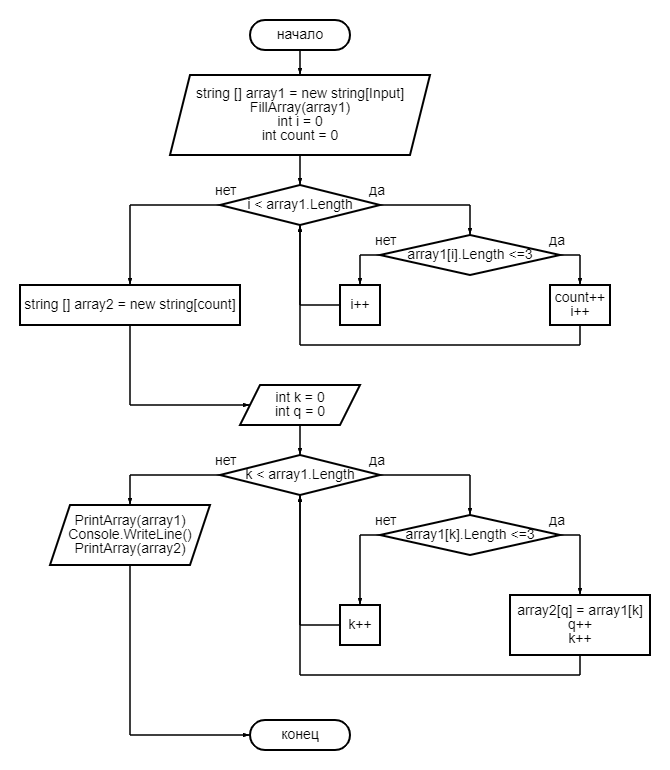
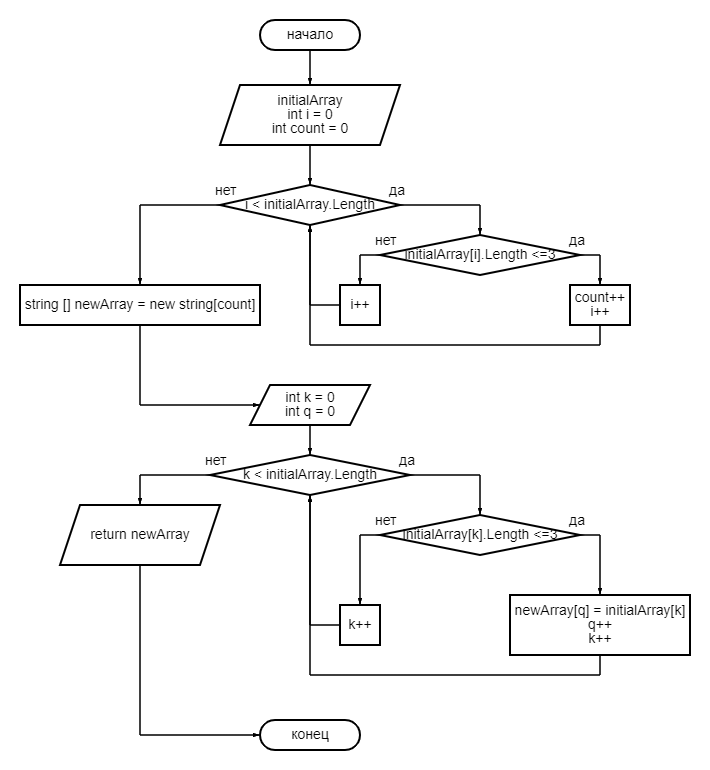
окончательный вариант

diff --git a/pr/Program.cs b/pr/Program.cs
@@ -15,9 +15,9 @@ string InputString(string text)
     return Console.ReadLine();
 }
 
-string[] CreateArray(string text)
+string[] CreateArray()
 {
-    string[] array = new string[Input(text)];
+    string[] array = new string[Input("Введите размер массива: ")];
     int index = 0;
     while (index < array.Length)
     {
@@ -66,7 +66,7 @@ void PrintArray(string[] array)
     }
 }
 
-string[] initialArray = CreateArray("Введите размер массива: ");
+string[] initialArray = CreateArray();
 
 Console.Write("Первоначальный массив: ");
 PrintArray(initialArray);

diff --git a/README.md b/README.md
@@ -3,25 +3,33 @@
 ### Задача:
 Написать программу, которая из имеющегося массива строк формирует новый массив из строк, длина которых меньше, либо равна 3 символам. Первоначальный массив можно ввести с клавиатуры, либо задать на старте выполнения алгоритма. При решении не рекомендуется пользоваться коллекциями, лучше обойтись исключительно массивами.
 ### Описание решения задачи:
-Создаем массив ***array1***. Массив будет состоять из строк, поэтому тип данных массива - ***string***. Размер массива задается пользователем с клавиатуры. Для этого используем метод ***Input***.\
-Далее заполняем массив. Данные задаются пользователем с клавиатуры. Для заполнения массива используем метод ***FillArray***.\
+1. Создание первоначального массива\
+Создаем массив ***initialArray***. Массив будет состоять из строк, поэтому тип данных массива - ***string***. Массив создается и заполняется с помощью метода ***CreateArray***. При этом размер массива задается пользователем с клавиатуры с помощью метода ***Input***. Данные массива также задаются пользователем с помощью метода ***InputString***.
+2. Описание основного блока программы\
+Основной блок программы записан в методе ***NewArray***. Метод принимает массив ***array*** и возвращает массив ***newArray***.\
 Так как в новом массиве должны быть строки, длина которых меньше, либо равна 3 символам, то длина нового массива будет равна количеству подходящих 
 под это условие строк.\
-Создаем переменную ***i*** равную 0, которая будет обозначать индекс элемента массива ***array1***, и переменную ***count*** равную 0, которая является счетчиком нужных нам строк.\
-Входим в цикл ***while***, условием которого являеется выражение ***i < array1.Length*** (т.е. пока индекс элемента меньше длины массива, цикл будет работать). Если условие верно, то проверяем, подходит ли элемент массива под условие ***array1[i].Length <= 3*** (длина элемента массива с индексом ***i*** меньше, либо равна 3). Если и это условие верно, то увеличиваем счетчик ***count*** на 1 и индекс ***i*** также увеличиваем на 1. Если данное условие не верно, то увеличиваем на 1 только индекс ***i***.\
-Затем возвращаемся в начало цикла, и так до тех пор, пока условие в цикле (***i < array1.Length***) верно. Как только это условие перестает быть верным, выходим из цикла.\
+Создаем переменную ***i*** равную 0, которая будет обозначать индекс элемента массива ***array***, и переменную ***count*** равную 0, которая является счетчиком нужных нам строк.\
+Входим в цикл ***while***, условием которого являеется выражение ***i < array.Length*** (т.е. пока индекс элемента меньше длины массива, цикл будет работать). Если условие верно, то проверяем, подходит ли элемент массива под условие ***array[i].Length <= 3*** (длина элемента массива с индексом ***i*** меньше, либо равна 3). Если и это условие верно, то увеличиваем счетчик ***count*** на 1 и индекс ***i*** также увеличиваем на 1. Если данное условие не верно, то увеличиваем на 1 только индекс ***i***.\
+Затем возвращаемся в начало цикла, и так до тех пор, пока условие в цикле (***i < array.Length***) верно. Как только это условие перестает быть верным, выходим из цикла.\
 В итоге в переменной ***count*** будет хранится количество строк, длина которых 
 меньше, либо равна 3.\
-Создаем новый массив ***array2***. Так как данные массива будут строками, то тип данных массива будет ***string***. Длинной массива ***array2*** будет значение переменной ***count***.\
-Теперь будем заполнять массив ***array2***. Для этого создаем переменную ***k*** равную 0, 
-которая будет обозначать индекс элемента массива ***array1***, и переменную ***q*** равную 0, которая будет обозначать индекс элемента массива ***array2***.\
-Входим в цикл ***while***, условием которого являеется выражение ***k < array1.Length*** (т.е. пока индекс элемента меньше длины массива ***array1***, цикл будет работать). Если условие верно, то проверяем, подходит ли элемент массива 
-под условие ***array1[k].Length <= 3*** (длина элемента массива с индексом ***k*** меньше, 
-либо равна 3). Если и это условие верно, то записываем этот элемент в массив ***array2*** в значение c индексом ***q*** (***array2[q] = array1[k]***), затем увеличиваем индекс ***q*** на 1 и индекс ***k*** так же на 1. Если это условие не верно (длина строки больше 3), то увеличиваем индекс ***k*** на 1.\
-Затем возвращаемся в начало цикла, и так до тех пор, пока условие в цикле (***k < array1.Length***) верно. Как только это условие перестает быть верным, выходим из цикла.\
-В итоге массив ***array2*** заполнится строками, длина которых меньше, либо равна 3.\
-Для вывода массивов на экран воспользуемся методом ***PrintArray***. Сначала выводим массив ***array1***, затем переходим на новую строку и выводим массив ***array2***.\
-Программа завершена.
+Создаем новый массив ***newArray***. Так как данные массива будут строками, то тип данных массива будет ***string***. Длинной массива ***newArray*** будет значение переменной ***count***.\
+Теперь будем заполнять массив ***newArray***. Для этого создаем переменную ***k*** равную 0, 
+которая будет обозначать индекс элемента массива ***array***, и переменную ***q*** равную 0, которая будет обозначать индекс элемента массива ***newArray***.\
+Входим в цикл ***while***, условием которого являеется выражение ***k < array.Length*** (т.е. пока индекс элемента меньше длины массива ***array***, цикл будет работать). Если условие верно, то проверяем, подходит ли элемент массива 
+под условие ***array[k].Length <= 3*** (длина элемента массива с индексом ***k*** меньше, 
+либо равна 3). Если и это условие верно, то записываем этот элемент в массив ***newArray*** в значение c индексом ***q*** (***newArray[q] = array[k]***), затем увеличиваем индекс ***q*** на 1 и индекс ***k*** так же на 1. Если это условие не верно (длина строки больше 3), то увеличиваем индекс ***k*** на 1.\
+Затем возвращаемся в начало цикла, и так до тех пор, пока условие в цикле (***k < array.Length***) верно. Как только это условие перестает быть верным, выходим из цикла.\
+В итоге массив ***newArray*** заполнится строками, длина которых меньше, либо равна 3.\
+Блок-схема к основному блоку программы:\
+![Блок-схема к основному блоку программы](main_part_diagram.png)
+3. Вывод массивов на экран\
+Для вывода массивов на экран воспользуемся методом ***PrintArray***. Сначала выводим массив ***initialArray***, затем переходим на новую строку и выводим новый массив через метод ***NewArray***, который принимает первоначальный массив ***initialArray*** (***PrintArray(NewArray(initialArray))***). Оформляем вывод массивов описанием.\
+4. Программа завершена.\
+Блок-схема:\
+![Блок-схема часть 1](complete_diagram1.png)
+![Блок-схема часть 2](complete_diagram2.png)
 ### Описание методов:
 - **Метод** ***Input***\
 Имеет тип данных ***int***, что означает, что он возвращает число. Принимает строку, которую увидит пользователь на экране (приглашение для ввода данных).\
@@ -31,17 +39,21 @@
 Имеет тип данных ***string***, что означает, что он возвращает строку. Принимает строку, которую увидит пользователь на экране (приглашение для ввода данных).\
 Возвращает строку, введеную пользователем.
 
-- **Метод** ***FillArray***\
-Метод для заполнения массива данными, которые задает пользователь с клавиатуры. Принимает пустой массив ***array*** с типом данных ***string***.\
-Создаем переменную ***index*** равную 0, которая будет обозначать индекс элемента массива. Входим в цикл ***while***, условием которого являеется выражение ***index < array.Length*** (т.е. пока индекс элемента меньше длины массива ***array***, 
-цикл будет работать). Если условие верно, то с помощью функции ***InputString*** записываем введенное пользователем значение в массив в элемент с индексом ***index*** (***array[index] = InputString("Введите элемент массива: ")***) и 
-увеличиваем индекс ***index*** на 1. Затем возвращаемся в начало цикла, и так до тех 
+- **Метод** ***CreateArray***\
+Метод для создания массива и заполнения его данными, которые задает пользователь с клавиатуры. Имеет тип данных ***string[]***, что означает, что он возвращает массив строк. Ничего не принимает.\
+Создаем массив ***array***. Массив будет состоять из строк, поэтому тип данных массива - ***string***. Размер массива задается пользователем с клавиатуры. Для этого используем метод ***Input*** (*смотри описание выше*).\
+Далее заполняем массив. Создаем переменную ***index*** равную 0, которая будет обозначать индекс элемента массива. Входим в цикл ***while***, условием которого являеется выражение ***index < array.Length*** (т.е. пока индекс элемента меньше длины массива ***array***, 
+цикл будет работать). Если условие верно, то с помощью функции ***InputString*** (*смотри описание выше*) записываем введенное пользователем значение в массив в элемент с индексом ***index*** (***array[index] = InputString("Введите элемент массива: ")***) и увеличиваем индекс ***index*** на 1. Затем возвращаемся в начало цикла, и так до тех 
 пор, пока условие в цикле (***index < array.Length***) верно. Как только это условие 
 перестает быть верным, выходим из цикла.\
 Массив заполнен.
 
+- **Метод** ***NewArray***\
+Метод для основного решения задачи - создания нового массива. Имеет тип данных ***string[]***, что означает, что он возвращает массив строк. Принимает массив ***array*** с типом данных ***string***.\
+Описание смотри в п.2 "Описание основного блока программы".
+
 - **Метод** ***PrintArray***\
-Метод для вывода массива на экран. Принимает массив ***array*** с типом данных ***string***.\
+Метод для вывода массива на экран. Имеет тип данных ***void***. Принимает массив ***array*** с типом данных ***string***. Ничего не возвращает.\
 Создаем переменную ***index*** равную 0, которая будет обозначать индекс элемента массива. Входим в цикл ***while***, условием которого являеется выражение ***index < array.Length*** (т.е. пока индекс элемента меньше длины массива ***array***, 
 цикл будет работать). Если условие верно, то выводим элемент массива с индексом 
 ***index*** на экран, добавляя к нему символ табуляции (***Console.Write(array[index] + 
